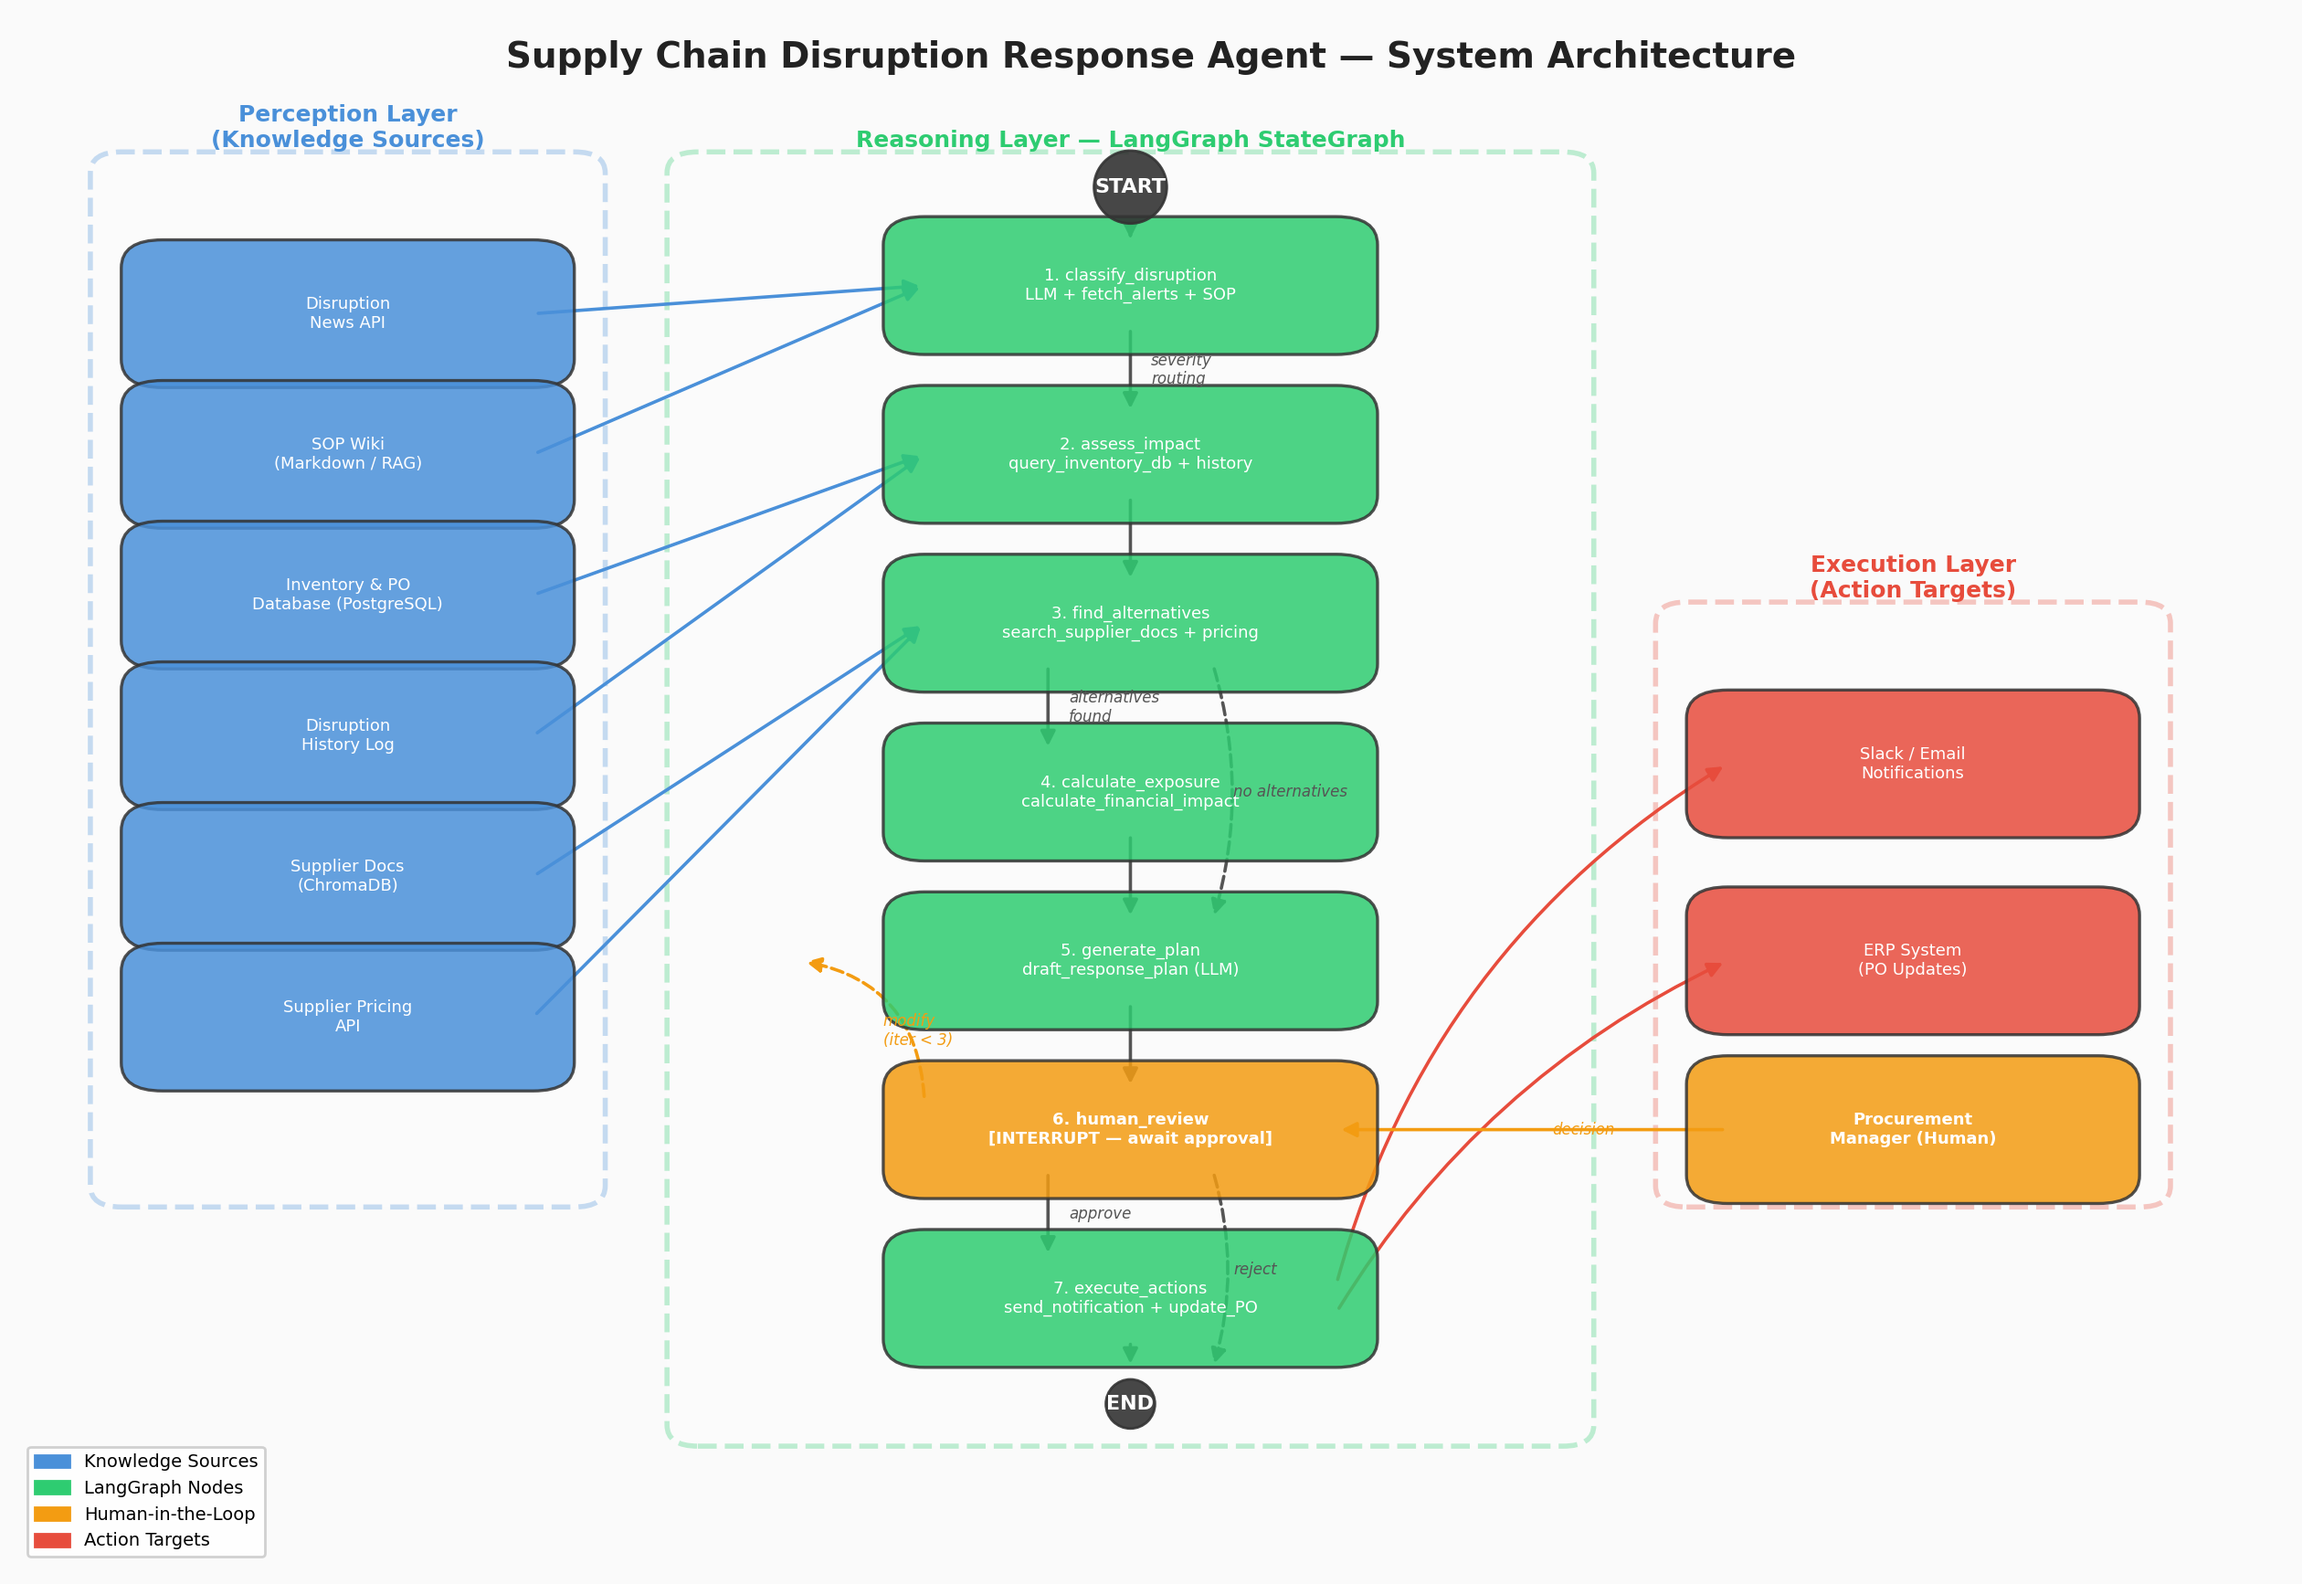
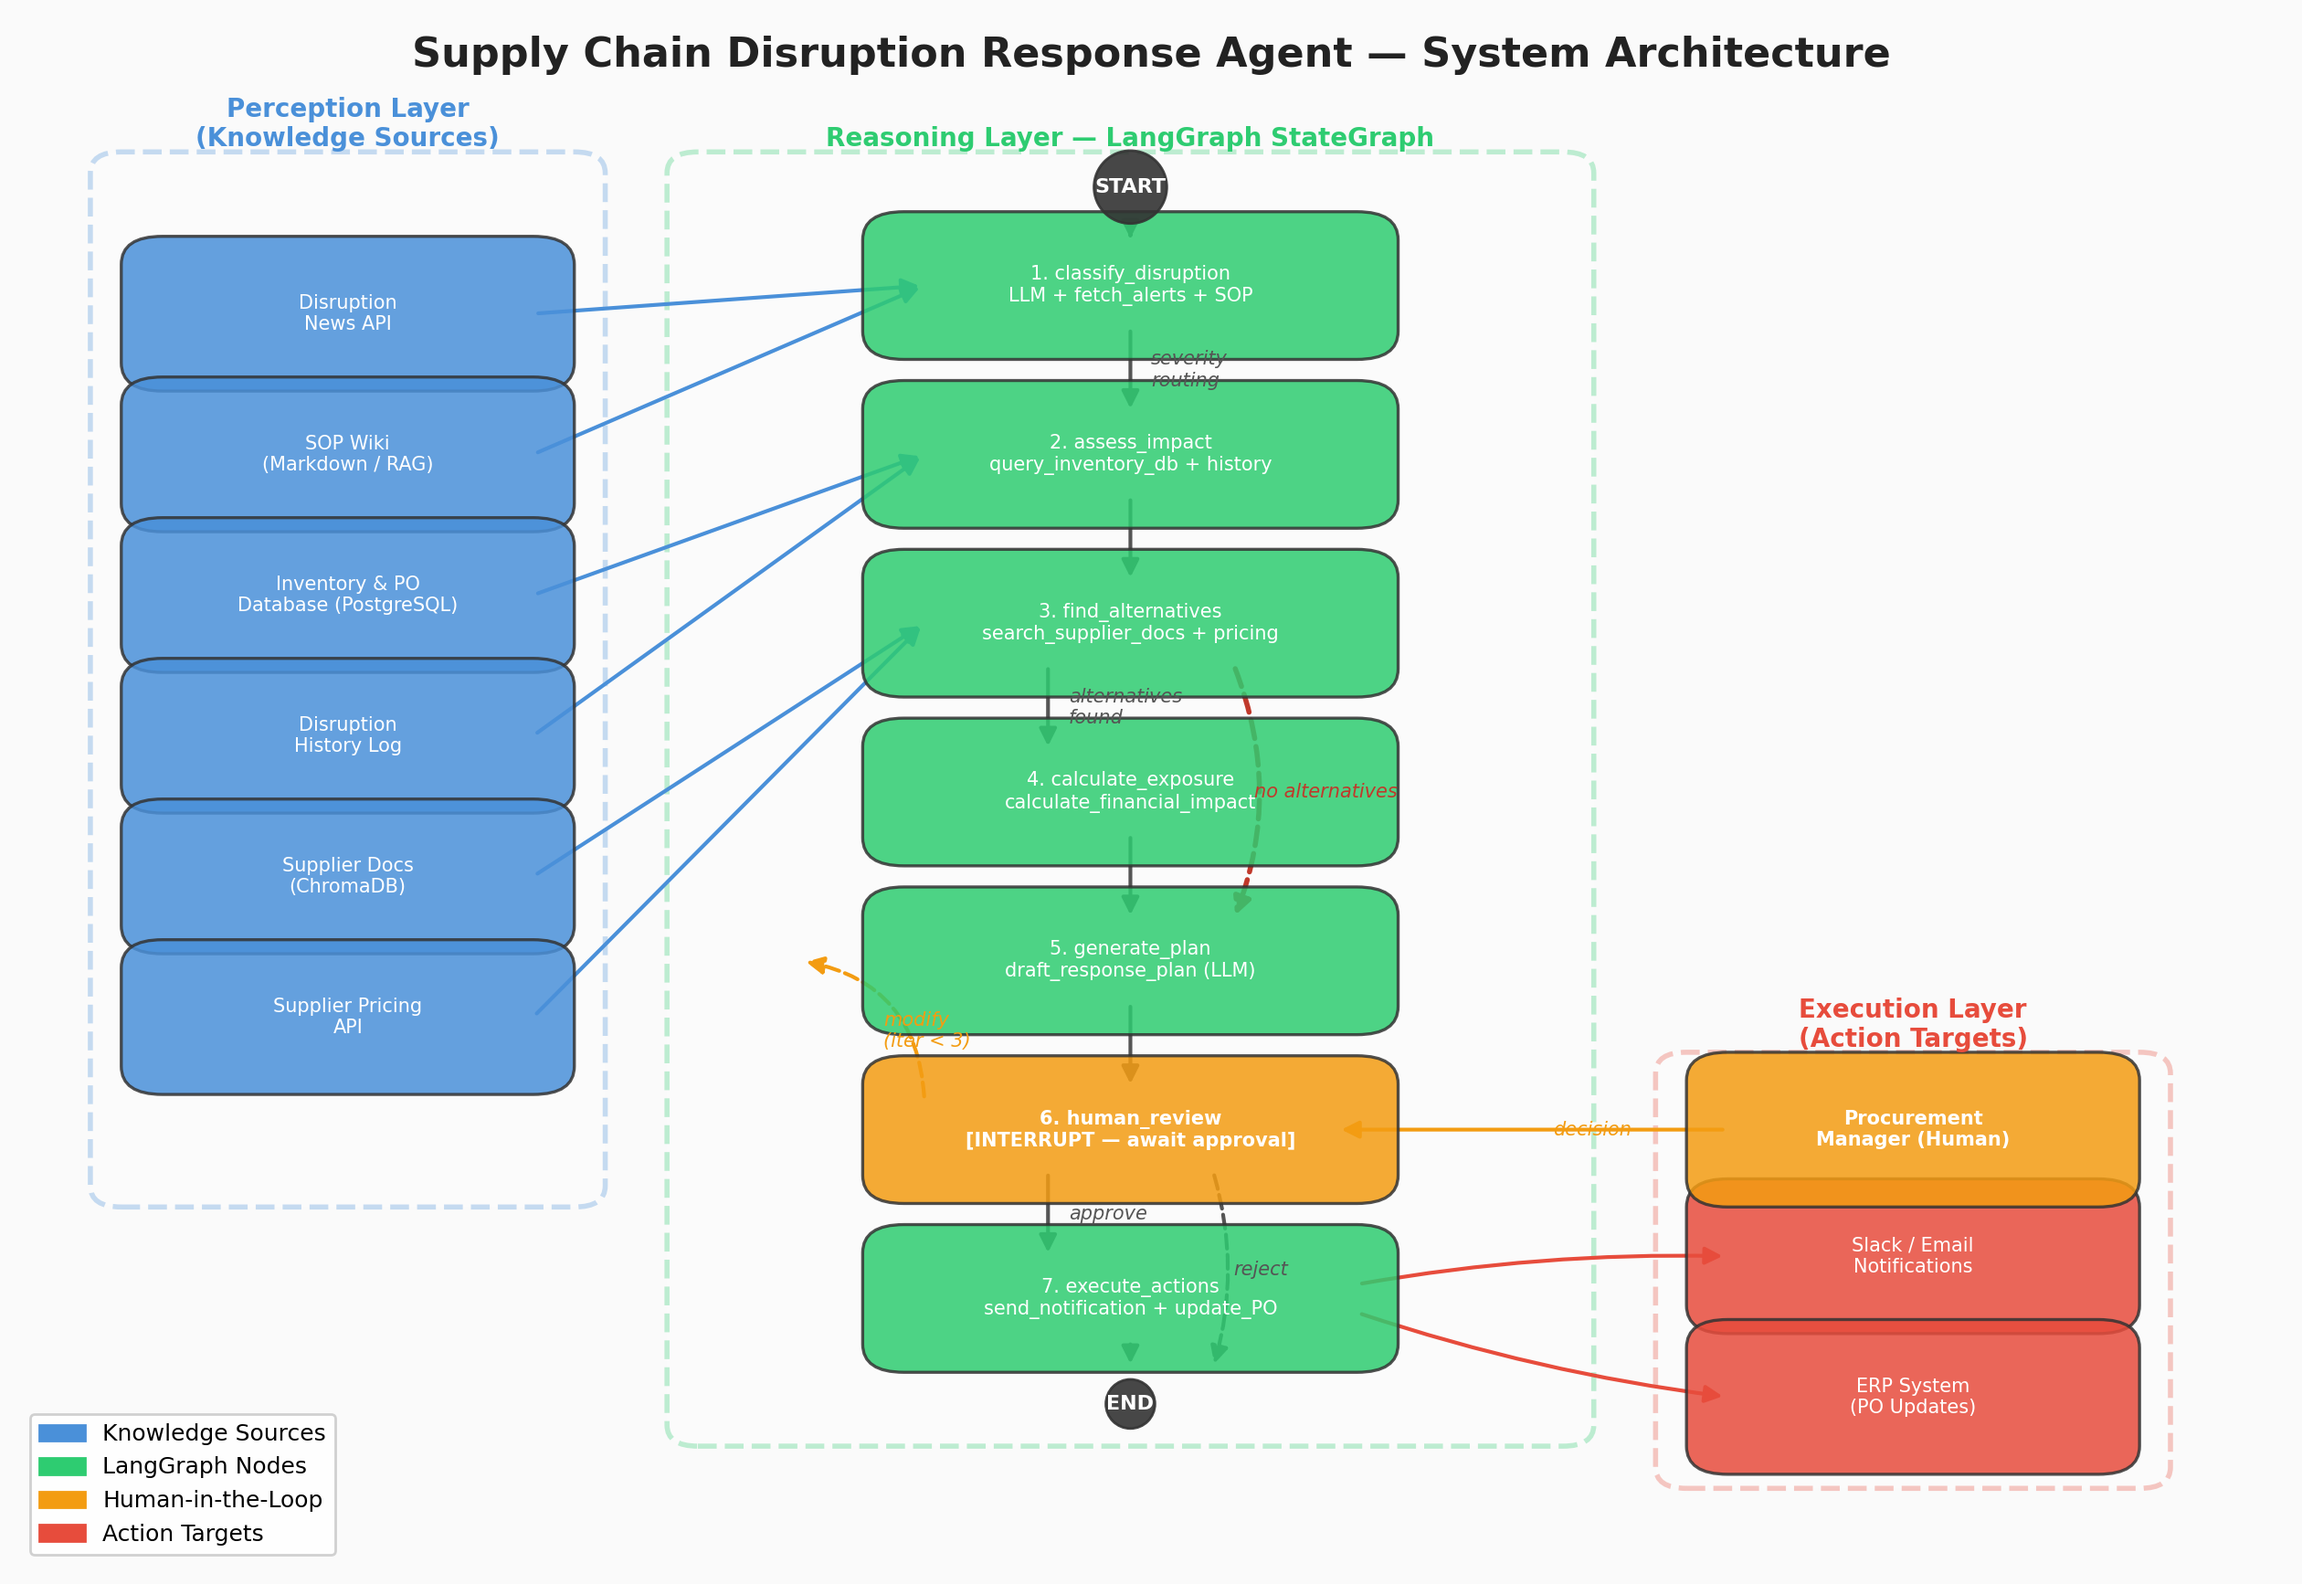
Improve architecture diagram readability and add diagram readme
- Increase font sizes across all nodes, labels, and legend
- Reposition execution targets to align with execute_actions node
- Make "no alternatives" bypass arrow more visible (thicker, red)
- Add DIAGRAM_README.txt noting matplotlib was used

diff --git a/generate_diagram.py b/generate_diagram.py
@@ -16,7 +16,7 @@ COL_EDGE        = "#555555"   # Dark grey – arrows
 COL_BG          = "#FAFAFA"   # Light background
 COL_CLUSTER_BG  = "#FFFFFF"   # Cluster background
 
-def draw_box(ax, x, y, w, h, text, color, fontsize=7.5, bold=False, alpha=0.85):
+def draw_box(ax, x, y, w, h, text, color, fontsize=8.5, bold=False, alpha=0.85):
     """Draw a rounded rectangle with centered text."""
     box = FancyBboxPatch(
         (x - w/2, y - h/2), w, h,
@@ -31,19 +31,19 @@ def draw_box(ax, x, y, w, h, text, color, fontsize=7.5, bold=False, alpha=0.85):
             zorder=4, wrap=True)
 
 def draw_arrow(ax, x1, y1, x2, y2, label="", color=COL_EDGE, style="-|>",
-               linestyle="-", connectionstyle="arc3,rad=0"):
+               linestyle="-", connectionstyle="arc3,rad=0", linewidth=1.5):
     """Draw an arrow between two points with optional label."""
     arrow = FancyArrowPatch(
         (x1, y1), (x2, y2),
         arrowstyle=style, color=color,
-        linewidth=1.3, linestyle=linestyle,
+        linewidth=linewidth, linestyle=linestyle,
         connectionstyle=connectionstyle,
-        mutation_scale=12, zorder=2
+        mutation_scale=14, zorder=2
     )
     ax.add_patch(arrow)
     if label:
         mx, my = (x1 + x2) / 2, (y1 + y2) / 2
-        ax.text(mx + 0.01, my, label, fontsize=6, color=color,
+        ax.text(mx + 0.01, my, label, fontsize=7.5, color=color,
                 ha="left", va="center", style="italic", zorder=5)
 
 def draw_cluster(ax, x, y, w, h, title, color):
@@ -56,7 +56,7 @@ def draw_cluster(ax, x, y, w, h, title, color):
     )
     ax.add_patch(rect)
     ax.text(x + w/2, y + h + 0.015, title,
-            ha="center", va="bottom", fontsize=9,
+            ha="center", va="bottom", fontsize=10,
             fontweight="bold", color=color, zorder=5)
 
 
@@ -70,18 +70,18 @@ def main():
 
     # Title
     ax.text(0.5, 1.01, "Supply Chain Disruption Response Agent — System Architecture",
-            ha="center", va="bottom", fontsize=14, fontweight="bold", color="#222")
+            ha="center", va="bottom", fontsize=16, fontweight="bold", color="#222")
 
     # ── Clusters ────────────────────────────────────────────────────
     # Perception layer (left column)
     draw_cluster(ax, 0.0, 0.22, 0.22, 0.72, "Perception Layer\n(Knowledge Sources)", COL_PERCEPTION)
     # Reasoning layer (center)
     draw_cluster(ax, 0.28, 0.05, 0.42, 0.89, "Reasoning Layer — LangGraph StateGraph", COL_REASONING)
-    # Execution layer (right column)
-    draw_cluster(ax, 0.76, 0.22, 0.22, 0.40, "Execution Layer\n(Action Targets)", COL_EXECUTION)
+    # Execution layer (right column) — aligned with execute_actions node
+    draw_cluster(ax, 0.76, 0.02, 0.22, 0.28, "Execution Layer\n(Action Targets)", COL_EXECUTION)
 
     # ── Perception boxes (left) ─────────────────────────────────────
-    bw, bh = 0.18, 0.065
+    bw, bh = 0.18, 0.07
     sources = [
         (0.11, 0.84, "Disruption\nNews API"),
         (0.11, 0.74, "SOP Wiki\n(Markdown / RAG)"),
@@ -91,10 +91,10 @@ def main():
         (0.11, 0.34, "Supplier Pricing\nAPI"),
     ]
     for sx, sy, stxt in sources:
-        draw_box(ax, sx, sy, bw, bh, stxt, COL_PERCEPTION, fontsize=6.5)
+        draw_box(ax, sx, sy, bw, bh, stxt, COL_PERCEPTION, fontsize=7.5)
 
     # ── Reasoning nodes (center column) ─────────────────────────────
-    nw, nh = 0.20, 0.058
+    nw, nh = 0.22, 0.065
     nodes = [
         (0.49, 0.86, "1. classify_disruption\nLLM + fetch_alerts + SOP"),
         (0.49, 0.74, "2. assess_impact\nquery_inventory_db + history"),
@@ -106,18 +106,18 @@ def main():
     ]
     for i, (nx, ny, ntxt) in enumerate(nodes):
         col = COL_HUMAN if i == 5 else COL_REASONING
-        draw_box(ax, nx, ny, nw, nh, ntxt, col, fontsize=6.5, bold=(i == 5))
+        draw_box(ax, nx, ny, nw, nh, ntxt, col, fontsize=7.5, bold=(i == 5))
 
-    # ── Execution boxes (right) ─────────────────────────────────────
+    # ── Execution boxes (right) — aligned with execute_actions ──────
     targets = [
-        (0.87, 0.52, "Slack / Email\nNotifications"),
-        (0.87, 0.38, "ERP System\n(PO Updates)"),
+        (0.87, 0.17, "Slack / Email\nNotifications"),
+        (0.87, 0.07, "ERP System\n(PO Updates)"),
     ]
     for tx, ty, ttxt in targets:
-        draw_box(ax, tx, ty, bw, bh, ttxt, COL_EXECUTION, fontsize=6.5)
+        draw_box(ax, tx, ty, bw, bh, ttxt, COL_EXECUTION, fontsize=7.5)
 
-    # ── Human actor (right side) ────────────────────────────────────
-    draw_box(ax, 0.87, 0.26, bw, bh, "Procurement\nManager (Human)", COL_HUMAN, fontsize=6.5, bold=True)
+    # ── Human actor (right side) — aligned with human_review ──────
+    draw_box(ax, 0.87, 0.26, bw, bh, "Procurement\nManager (Human)", COL_HUMAN, fontsize=7.5, bold=True)
 
     # ── START / END ─────────────────────────────────────────────────
     ax.annotate("START", xy=(0.49, 0.93), fontsize=8, fontweight="bold",
@@ -153,8 +153,9 @@ def main():
     # find_alternatives → calculate_exposure (if found)
     draw_arrow(ax, 0.45, 0.591, 0.45, 0.529, label="alternatives\nfound")
     # find_alternatives → generate_plan (no alternatives - skip calc)
-    draw_arrow(ax, 0.53, 0.591, 0.53, 0.409, label="no alternatives",
-               linestyle="--", connectionstyle="arc3,rad=-0.15")
+    draw_arrow(ax, 0.54, 0.591, 0.54, 0.409, label="no alternatives",
+               linestyle="--", connectionstyle="arc3,rad=-0.2",
+               color="#C0392B", linewidth=2.0)
     # calculate → generate_plan
     draw_arrow(ax, 0.49, 0.471, 0.49, 0.409)
     # generate_plan → human_review
@@ -170,13 +171,13 @@ def main():
     # execute → END
     draw_arrow(ax, 0.49, 0.111, 0.49, 0.09)
 
-    # ── Arrows: Reasoning → Execution ───────────────────────────────
-    # execute_actions → Slack
-    draw_arrow(ax, 0.59, 0.15, 0.78, 0.52, color=COL_EXECUTION,
-               connectionstyle="arc3,rad=-0.2")
+    # ── Arrows: Reasoning → Execution (horizontal, same level) ─────
+    # execute_actions → Slack/Email
+    draw_arrow(ax, 0.60, 0.15, 0.78, 0.17, color=COL_EXECUTION,
+               connectionstyle="arc3,rad=-0.05")
     # execute_actions → ERP
-    draw_arrow(ax, 0.59, 0.13, 0.78, 0.38, color=COL_EXECUTION,
-               connectionstyle="arc3,rad=-0.15")
+    draw_arrow(ax, 0.60, 0.13, 0.78, 0.07, color=COL_EXECUTION,
+               connectionstyle="arc3,rad=0.05")
 
     # ── Arrows: Human ↔ human_review ────────────────────────────────
     draw_arrow(ax, 0.78, 0.26, 0.59, 0.26, label="decision", color=COL_HUMAN)
@@ -188,7 +189,7 @@ def main():
         mpatches.Patch(color=COL_HUMAN, label="Human-in-the-Loop"),
         mpatches.Patch(color=COL_EXECUTION, label="Action Targets"),
     ]
-    ax.legend(handles=legend_patches, loc="lower left", fontsize=7,
+    ax.legend(handles=legend_patches, loc="lower left", fontsize=9,
               framealpha=0.9, edgecolor="#ccc")
 
     # ── Save ────────────────────────────────────────────────────────
